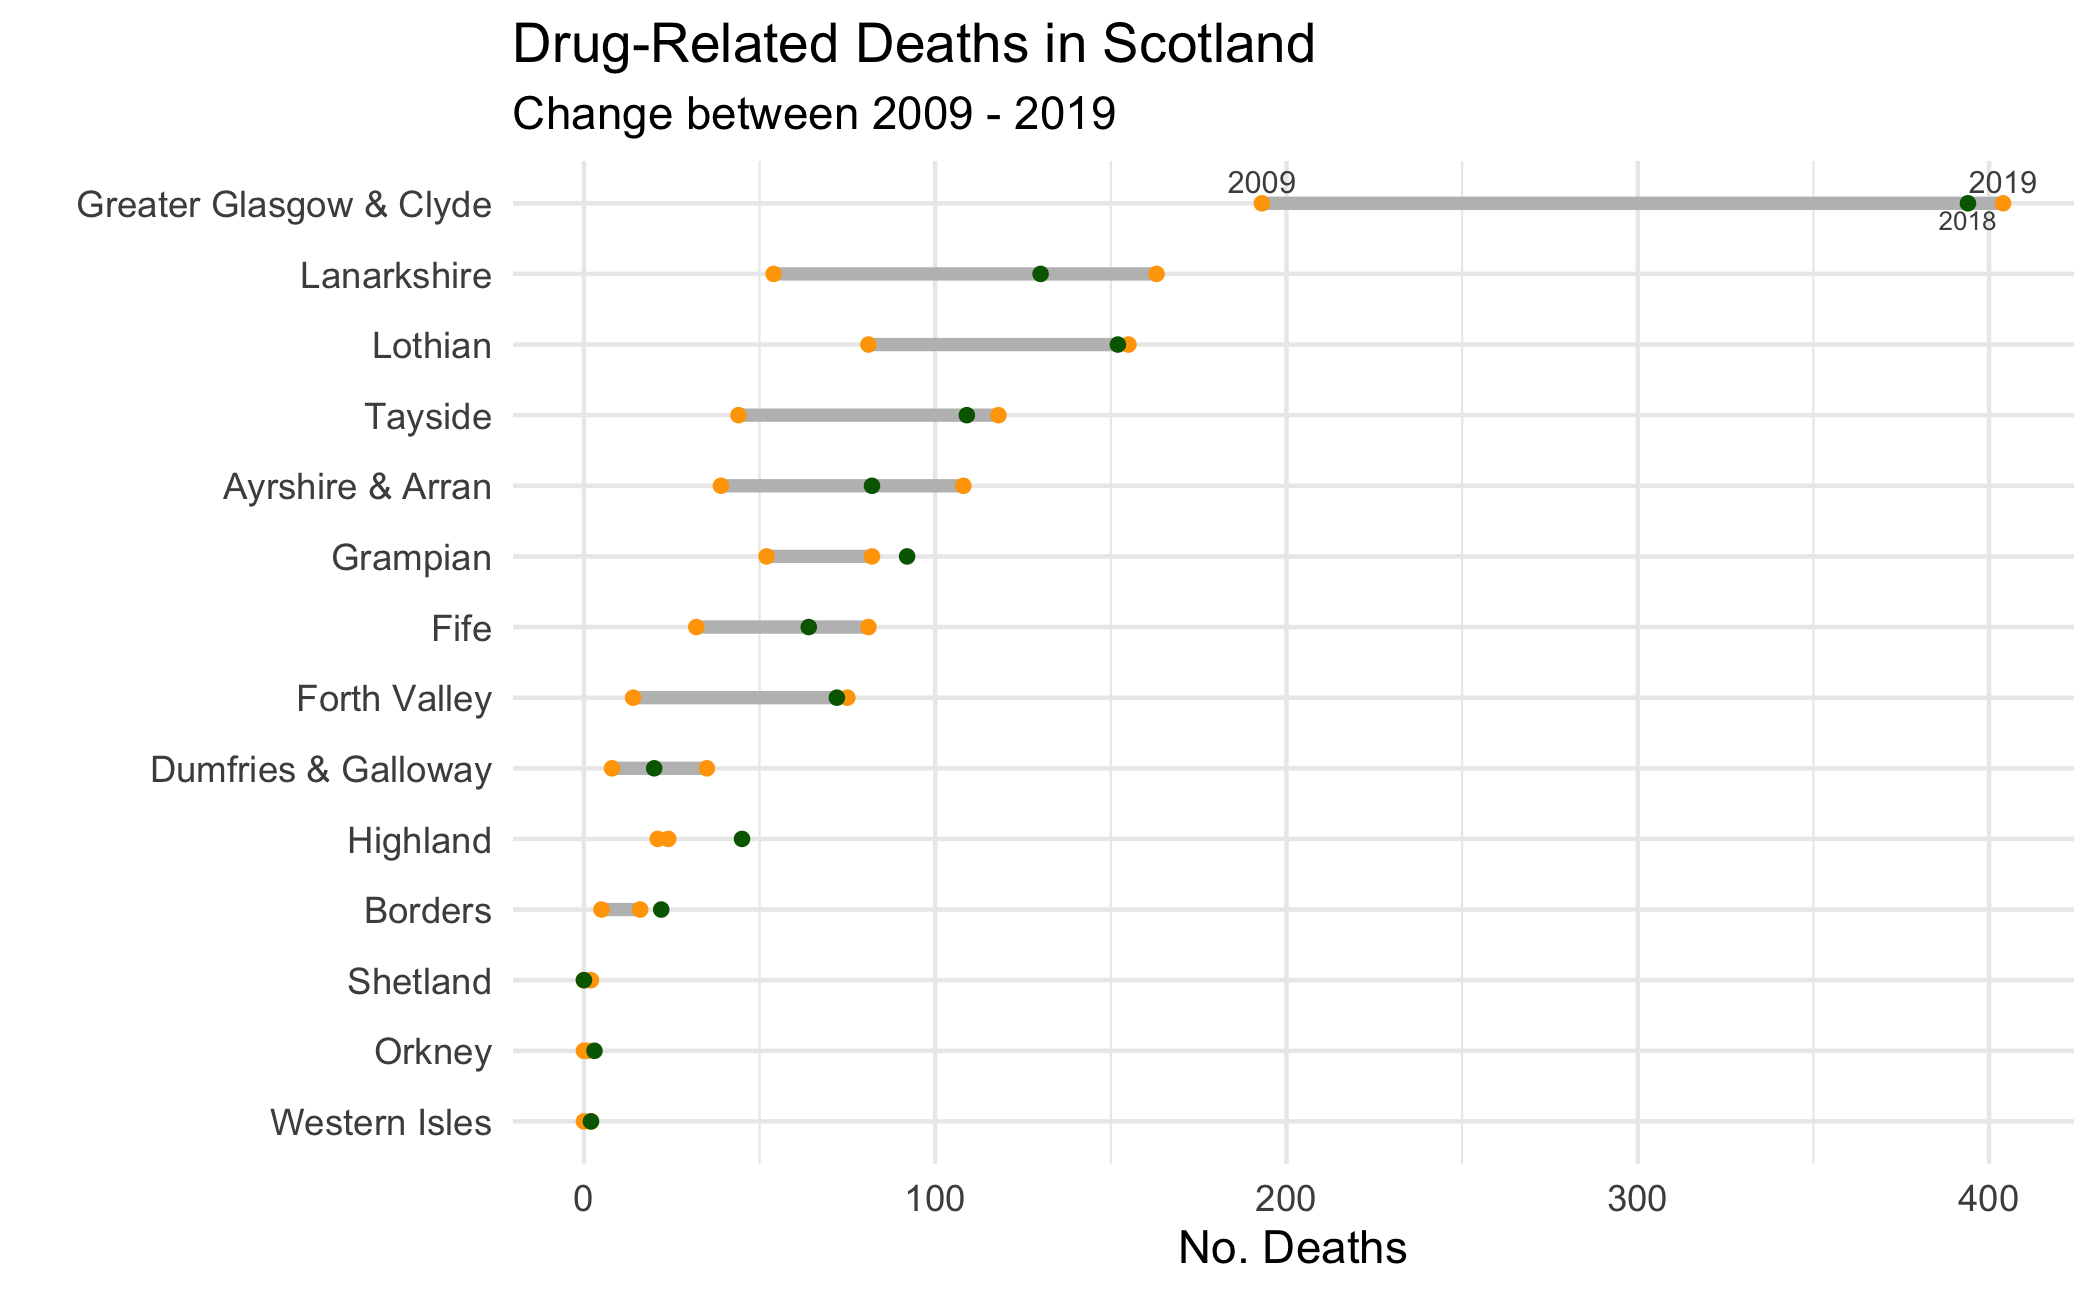
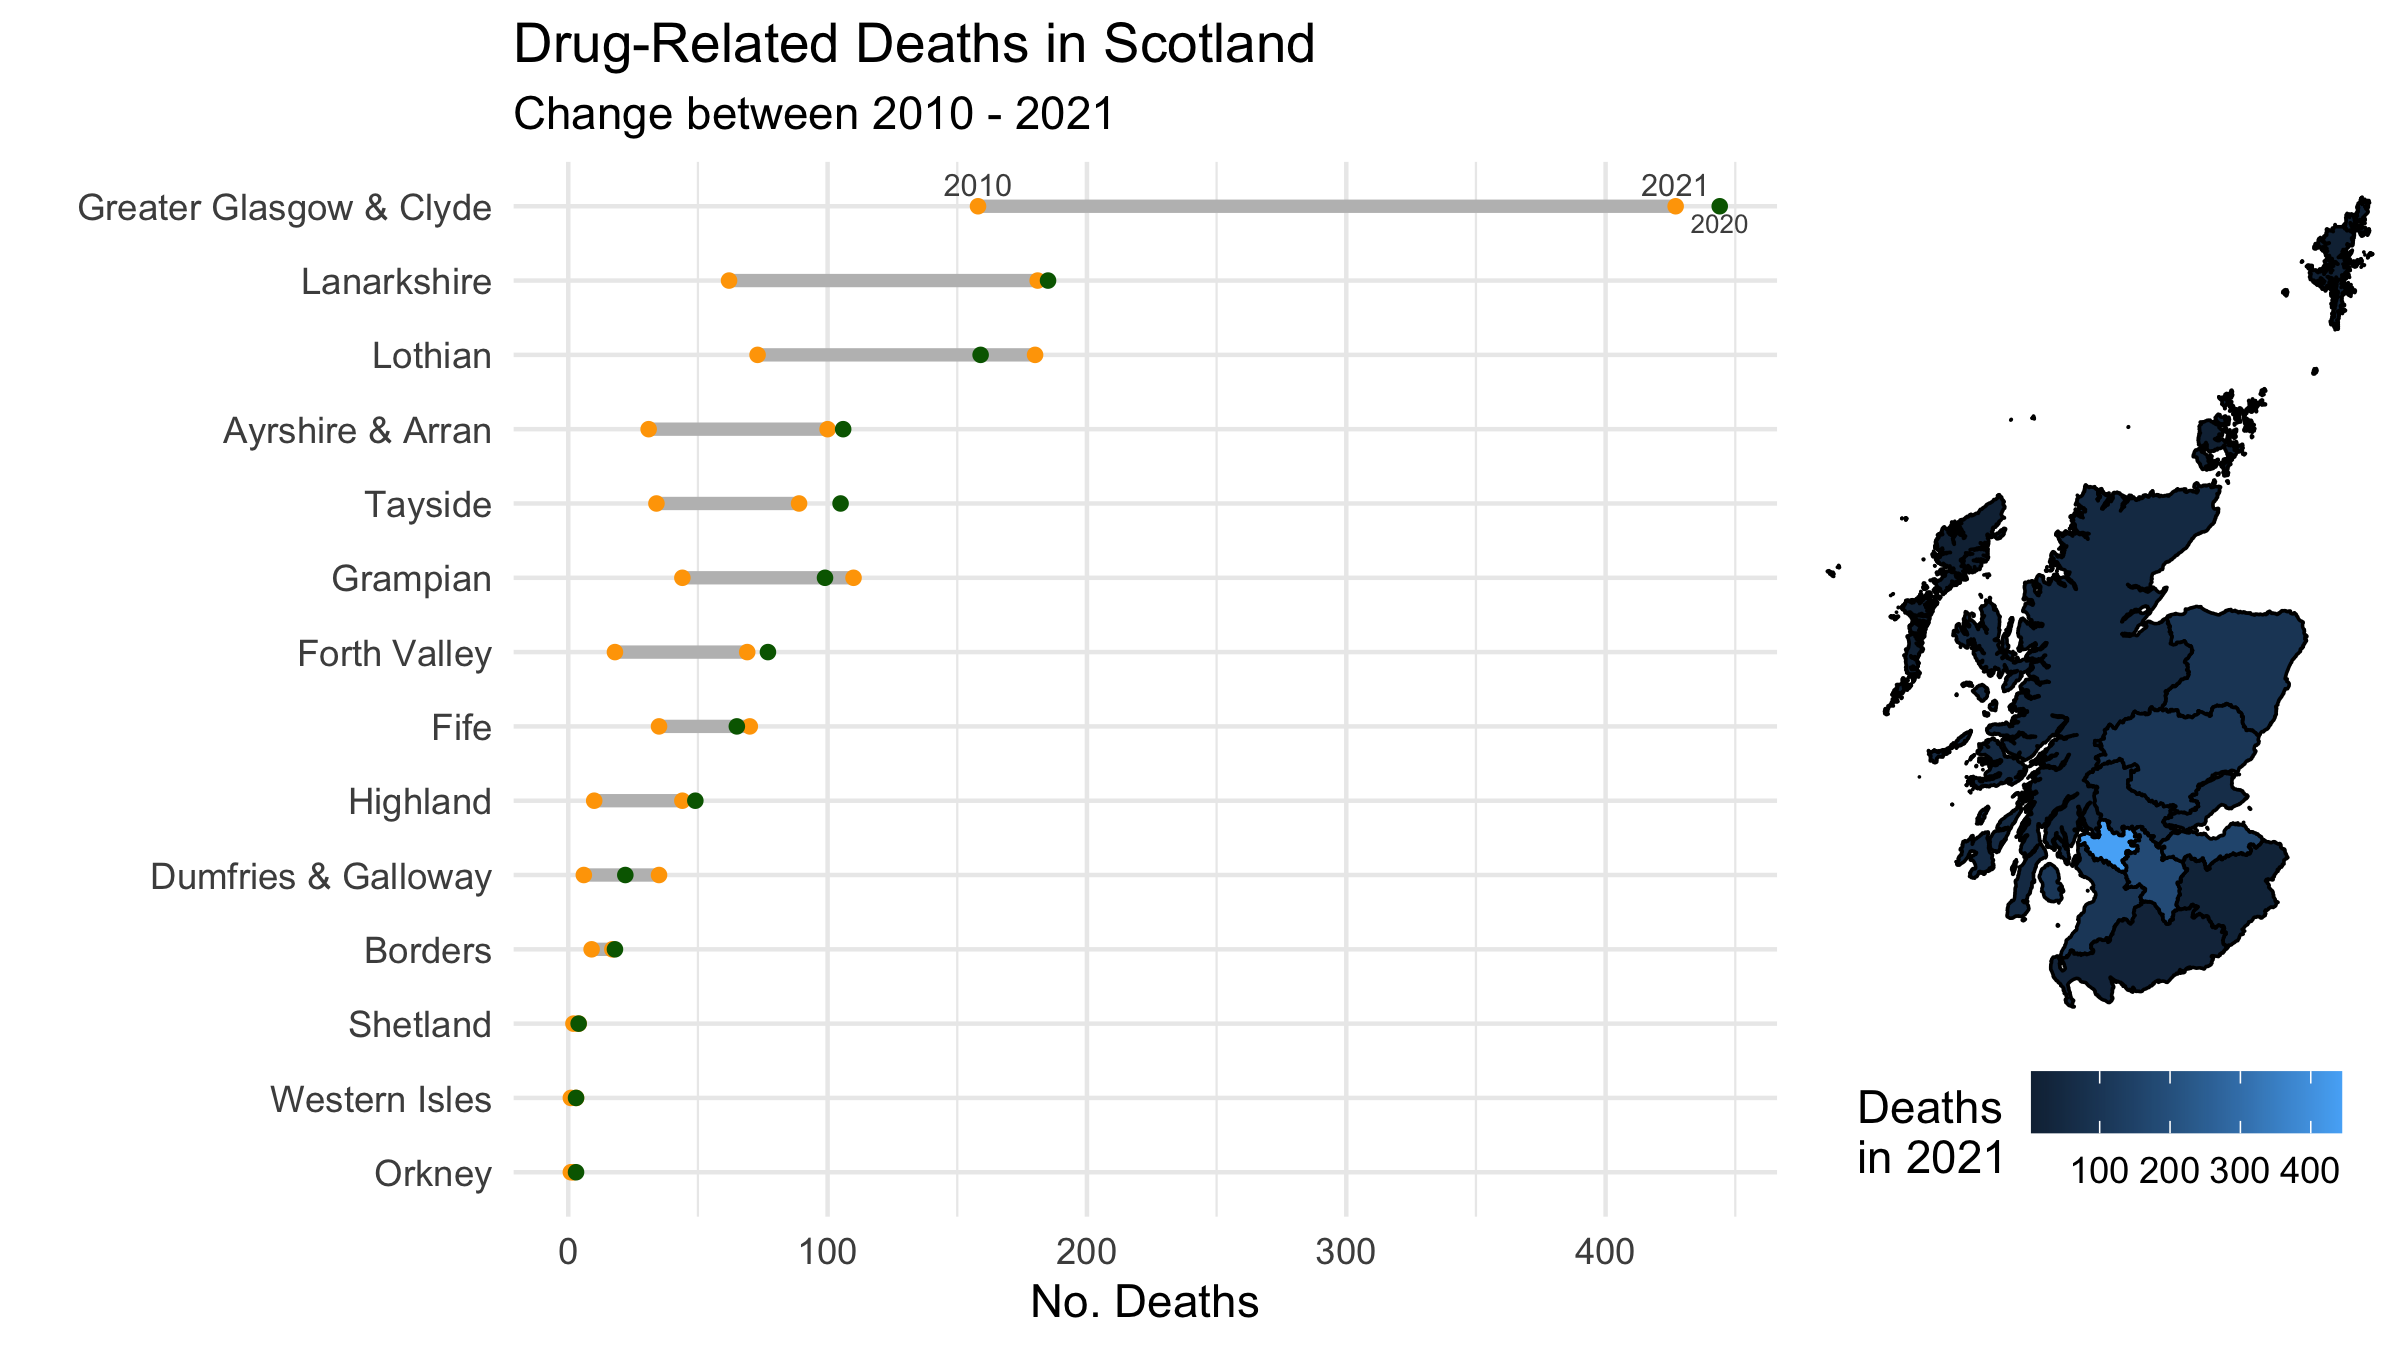
updating core image and adding to README

diff --git a/Readme.md b/Readme.md
@@ -1,5 +1,7 @@
 [![DOI](https://zenodo.org/badge/100367876.svg)](https://zenodo.org/badge/latestdoi/100367876)
 
+![headline_image](https://raw.githubusercontent.com/drchriscole/drugdeathsscotland/blob/2021_data/DRD_region_change.png)
+
 # Drug-related deaths in Scotland
 
 A repository for analysing [National Records of Scotland](https://www.nrscotland.gov.uk/statistics-and-data/statistics/statistics-by-theme/vital-events/deaths/drug-related-deaths-in-scotland) annual data on drug-related deaths in Scotland. I've been doing this since 2016 and each year's summary can be found in the [Releases](https://github.com/drchriscole/drugdeathsscotland/releases).
